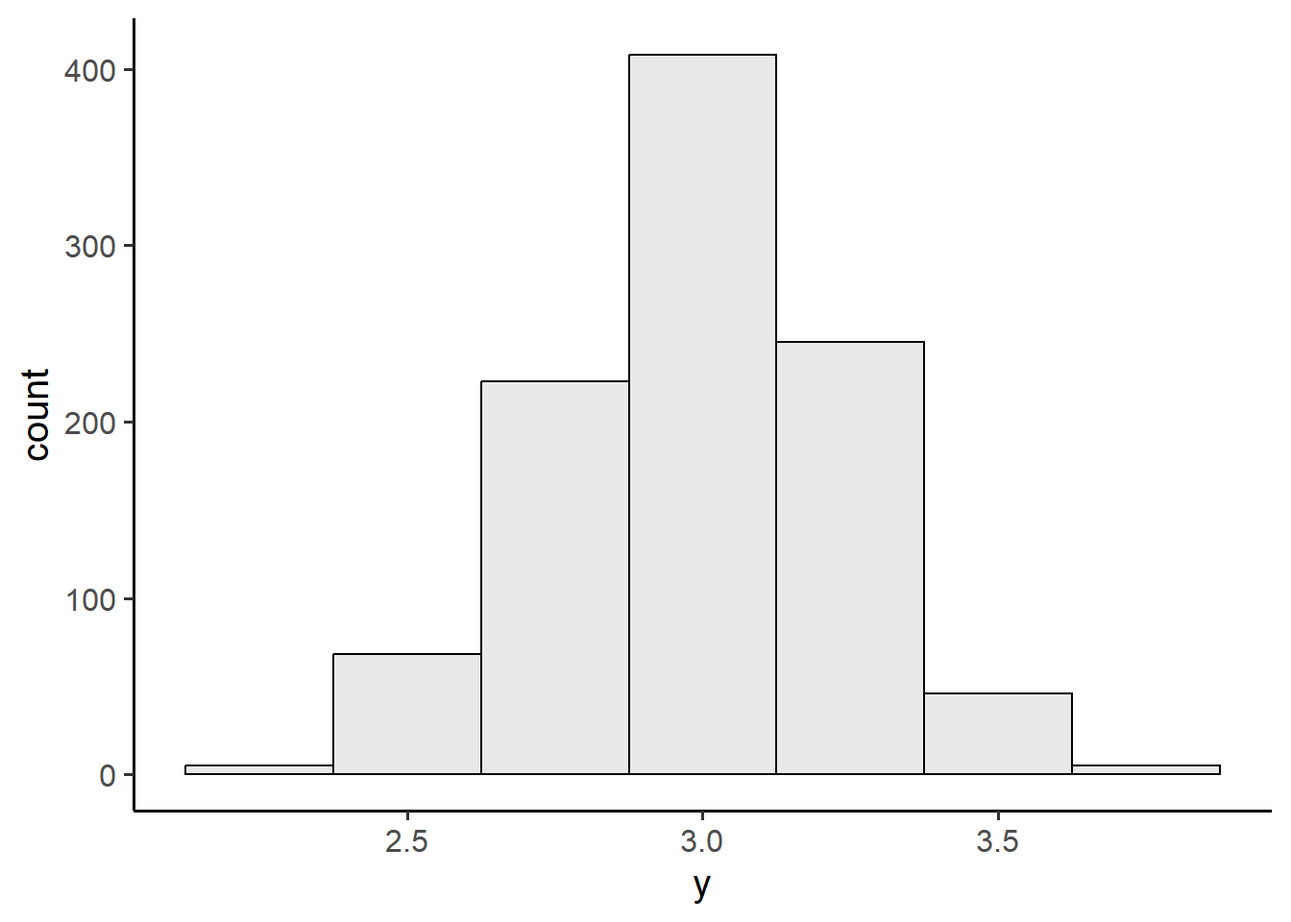
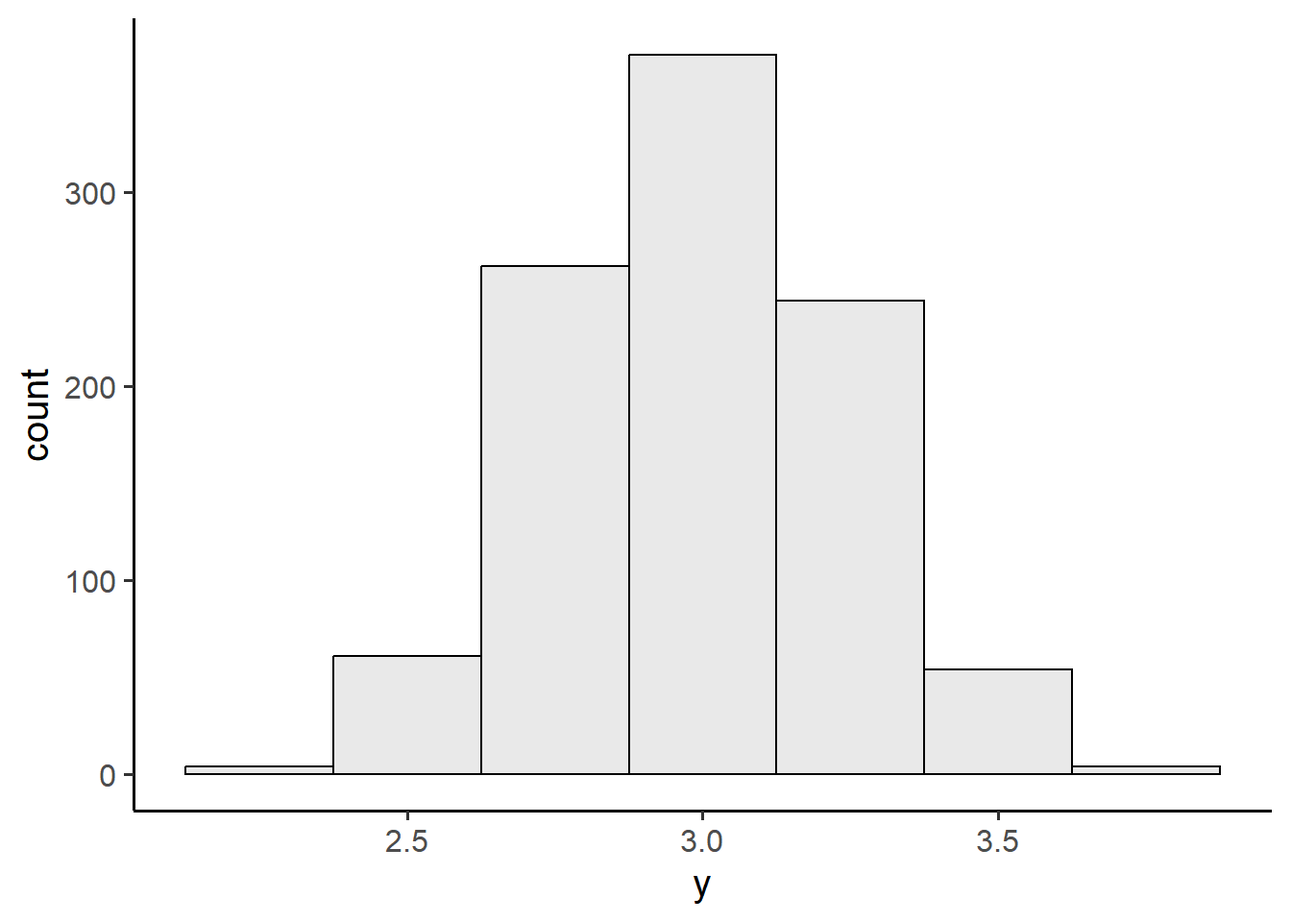
edit template example

diff --git a/docs/labs/lab-01.html b/docs/labs/lab-01.html
@@ -413,46 +413,46 @@ window.onload = function() {
 <section id="google-colab" class="level2" data-number="1">
 <h2 data-number="1" class="anchored" data-anchor-id="google-colab"><span class="header-section-number">1</span> Google Colab</h2>
 <p>True or false? We start a new R notebook in Google Colab with <code>File &gt; New notebook</code></p>
-<div id="radio_XOVHGANMBH" class="webex-radiogroup">
-<label><input type="radio" autocomplete="off" name="radio_XOVHGANMBH" value=""> <span>True</span></label><label><input type="radio" autocomplete="off" name="radio_XOVHGANMBH" value="answer"> <span>False</span></label>
+<div id="radio_QIBEBRFAIH" class="webex-radiogroup">
+<label><input type="radio" autocomplete="off" name="radio_QIBEBRFAIH" value=""> <span>True</span></label><label><input type="radio" autocomplete="off" name="radio_QIBEBRFAIH" value="answer"> <span>False</span></label>
 </div>
 <p>For problem sets, how will you submit your colab notebook for grading?</p>
-<div id="radio_ZXKHQEACCN" class="webex-radiogroup">
-<label><input type="radio" autocomplete="off" name="radio_ZXKHQEACCN" value="answer"> <span><code>File &gt; Download &gt; Download .ipynb</code>, then upload to Gradescope</span></label><label><input type="radio" autocomplete="off" name="radio_ZXKHQEACCN" value=""> <span><code>File &gt; Download &gt; Download .ipynb</code>, then upload to Canvas</span></label><label><input type="radio" autocomplete="off" name="radio_ZXKHQEACCN" value=""> <span><code>File &gt; Download &gt; Download .py</code>, then upload to Gradescope</span></label><label><input type="radio" autocomplete="off" name="radio_ZXKHQEACCN" value=""> <span><code>File &gt; Download &gt; Download .py</code>, then upload to Canvas</span></label>
+<div id="radio_BUSMPQCHGV" class="webex-radiogroup">
+<label><input type="radio" autocomplete="off" name="radio_BUSMPQCHGV" value="answer"> <span><code>File &gt; Download &gt; Download .ipynb</code>, then upload to Gradescope</span></label><label><input type="radio" autocomplete="off" name="radio_BUSMPQCHGV" value=""> <span><code>File &gt; Download &gt; Download .ipynb</code>, then upload to Canvas</span></label><label><input type="radio" autocomplete="off" name="radio_BUSMPQCHGV" value=""> <span><code>File &gt; Download &gt; Download .py</code>, then upload to Gradescope</span></label><label><input type="radio" autocomplete="off" name="radio_BUSMPQCHGV" value=""> <span><code>File &gt; Download &gt; Download .py</code>, then upload to Canvas</span></label>
 </div>
 <p>What version of R is Google Colab running? Hint: use <code>sessionInfo()</code>.</p>
 <p><input class="webex-solveme nospaces" size="20" data-answer="[&quot;4.3.1&quot;]"></p>
 <p>What is the relationship between R and Google Colab?</p>
-<div id="radio_DBZCMHTUSP" class="webex-radiogroup">
-<label><input type="radio" autocomplete="off" name="radio_DBZCMHTUSP" value=""> <span>R is a programming language. Google Colab is a smaller, specific version of R.</span></label><label><input type="radio" autocomplete="off" name="radio_DBZCMHTUSP" value="answer"> <span>R is a programming language. Google Colab is a development environment where you can run R</span></label><label><input type="radio" autocomplete="off" name="radio_DBZCMHTUSP" value=""> <span>R and Google Colab are both programming languages.</span></label><label><input type="radio" autocomplete="off" name="radio_DBZCMHTUSP" value=""> <span>R is a paid (proprietary) programming language. Google Colab is a free service to run R.</span></label>
+<div id="radio_JYADGCHTGP" class="webex-radiogroup">
+<label><input type="radio" autocomplete="off" name="radio_JYADGCHTGP" value=""> <span>R is a programming language. Google Colab is a smaller, specific version of R.</span></label><label><input type="radio" autocomplete="off" name="radio_JYADGCHTGP" value="answer"> <span>R is a programming language. Google Colab is a development environment where you can run R</span></label><label><input type="radio" autocomplete="off" name="radio_JYADGCHTGP" value=""> <span>R and Google Colab are both programming languages.</span></label><label><input type="radio" autocomplete="off" name="radio_JYADGCHTGP" value=""> <span>R is a paid (proprietary) programming language. Google Colab is a free service to run R.</span></label>
 </div>
 </section>
 <section id="r-basics" class="level2" data-number="2">
 <h2 data-number="2" class="anchored" data-anchor-id="r-basics"><span class="header-section-number">2</span> R Basics</h2>
 <p>Which of the following are expressions?</p>
-<div id="radio_BJQNSNIQGN" class="webex-radiogroup">
-<label><input type="radio" autocomplete="off" name="radio_BJQNSNIQGN" value="answer"> <span>10</span></label><label><input type="radio" autocomplete="off" name="radio_BJQNSNIQGN" value="answer"> <span>5 + 10</span></label><label><input type="radio" autocomplete="off" name="radio_BJQNSNIQGN" value="answer"> <span>x &lt;- 5 + 10</span></label><label><input type="radio" autocomplete="off" name="radio_BJQNSNIQGN" value="answer"> <span>x &lt;- y + 10</span></label><label><input type="radio" autocomplete="off" name="radio_BJQNSNIQGN" value="answer"> <span>mean(x)</span></label>
+<div id="radio_BHEFUPMZDW" class="webex-radiogroup">
+<label><input type="radio" autocomplete="off" name="radio_BHEFUPMZDW" value="answer"> <span>10</span></label><label><input type="radio" autocomplete="off" name="radio_BHEFUPMZDW" value="answer"> <span>5 + 10</span></label><label><input type="radio" autocomplete="off" name="radio_BHEFUPMZDW" value="answer"> <span>x &lt;- 5 + 10</span></label><label><input type="radio" autocomplete="off" name="radio_BHEFUPMZDW" value="answer"> <span>x &lt;- y + 10</span></label><label><input type="radio" autocomplete="off" name="radio_BHEFUPMZDW" value="answer"> <span>mean(x)</span></label>
 </div>
 <p>Which of the following are valid variable names in R?</p>
-<div id="radio_ACYQGZXWNC" class="webex-radiogroup">
-<label><input type="radio" autocomplete="off" name="radio_ACYQGZXWNC" value="answer"> <span>childAge</span></label><label><input type="radio" autocomplete="off" name="radio_ACYQGZXWNC" value="answer"> <span>response_time</span></label><label><input type="radio" autocomplete="off" name="radio_ACYQGZXWNC" value=""> <span>1stPlaceWinner</span></label><label><input type="radio" autocomplete="off" name="radio_ACYQGZXWNC" value=""> <span>2fast2furious</span></label><label><input type="radio" autocomplete="off" name="radio_ACYQGZXWNC" value=""> <span>pi</span></label>
+<div id="radio_TTPHCHIGLQ" class="webex-radiogroup">
+<label><input type="radio" autocomplete="off" name="radio_TTPHCHIGLQ" value="answer"> <span>childAge</span></label><label><input type="radio" autocomplete="off" name="radio_TTPHCHIGLQ" value="answer"> <span>response_time</span></label><label><input type="radio" autocomplete="off" name="radio_TTPHCHIGLQ" value=""> <span>1stPlaceWinner</span></label><label><input type="radio" autocomplete="off" name="radio_TTPHCHIGLQ" value=""> <span>2fast2furious</span></label><label><input type="radio" autocomplete="off" name="radio_TTPHCHIGLQ" value=""> <span>pi</span></label>
 </div>
 <p>Suppose we open a new colab notebook and run the following code block. What will be returned?</p>
 <div class="sourceCode" id="cb1"><pre class="sourceCode r code-with-copy"><code class="sourceCode r"><span id="cb1-1"><a href="#cb1-1" aria-hidden="true" tabindex="-1"></a>x <span class="ot">&lt;-</span> <span class="dv">1</span> <span class="sc">+</span> <span class="dv">2</span></span>
 <span id="cb1-2"><a href="#cb1-2" aria-hidden="true" tabindex="-1"></a>y <span class="ot">&lt;-</span> <span class="dv">0</span> <span class="sc">+</span> <span class="dv">3</span></span>
 <span id="cb1-3"><a href="#cb1-3" aria-hidden="true" tabindex="-1"></a><span class="fu">ls</span>()</span></code><button title="Copy to Clipboard" class="code-copy-button"><i class="bi"></i></button></pre></div>
-<div id="radio_ZKGLASCHPN" class="webex-radiogroup">
-<label><input type="radio" autocomplete="off" name="radio_ZKGLASCHPN" value=""> <span>3</span></label><label><input type="radio" autocomplete="off" name="radio_ZKGLASCHPN" value=""> <span>x=3 • y=3</span></label><label><input type="radio" autocomplete="off" name="radio_ZKGLASCHPN" value="answer"> <span>'x' • 'y' </span></label><label><input type="radio" autocomplete="off" name="radio_ZKGLASCHPN" value=""> <span>mean(c(1,3,5)) • median(c(1,3,5))</span></label>
+<div id="radio_NTNTCIMPNJ" class="webex-radiogroup">
+<label><input type="radio" autocomplete="off" name="radio_NTNTCIMPNJ" value=""> <span>3</span></label><label><input type="radio" autocomplete="off" name="radio_NTNTCIMPNJ" value=""> <span>x=3 • y=3</span></label><label><input type="radio" autocomplete="off" name="radio_NTNTCIMPNJ" value="answer"> <span>'x' • 'y' </span></label><label><input type="radio" autocomplete="off" name="radio_NTNTCIMPNJ" value=""> <span>mean(c(1,3,5)) • median(c(1,3,5))</span></label>
 </div>
 <p>Which of the following will load the <code>emo</code> package into the current environment?</p>
-<div id="radio_RPNSNUYGWH" class="webex-radiogroup">
-<label><input type="radio" autocomplete="off" name="radio_RPNSNUYGWH" value=""> <span>install.packages('emo')</span></label><label><input type="radio" autocomplete="off" name="radio_RPNSNUYGWH" value="answer"> <span>library(emo)</span></label><label><input type="radio" autocomplete="off" name="radio_RPNSNUYGWH" value=""> <span>data(emo)</span></label><label><input type="radio" autocomplete="off" name="radio_RPNSNUYGWH" value=""> <span>attributes(emo)</span></label>
+<div id="radio_YVHQIIGMZX" class="webex-radiogroup">
+<label><input type="radio" autocomplete="off" name="radio_YVHQIIGMZX" value=""> <span>install.packages('emo')</span></label><label><input type="radio" autocomplete="off" name="radio_YVHQIIGMZX" value="answer"> <span>library(emo)</span></label><label><input type="radio" autocomplete="off" name="radio_YVHQIIGMZX" value=""> <span>data(emo)</span></label><label><input type="radio" autocomplete="off" name="radio_YVHQIIGMZX" value=""> <span>attributes(emo)</span></label>
 </div>
 <p>Which of the following occur in the code block below?</p>
 <div class="sourceCode" id="cb2"><pre class="sourceCode r code-with-copy"><code class="sourceCode r"><span id="cb2-1"><a href="#cb2-1" aria-hidden="true" tabindex="-1"></a><span class="co"># compute the mean of x and y</span></span>
 <span id="cb2-2"><a href="#cb2-2" aria-hidden="true" tabindex="-1"></a><span class="fu">mean</span>(<span class="fu">c</span>(x,y))</span></code><button title="Copy to Clipboard" class="code-copy-button"><i class="bi"></i></button></pre></div>
-<div id="radio_LRAUYECJTF" class="webex-radiogroup">
-<label><input type="radio" autocomplete="off" name="radio_LRAUYECJTF" value=""> <span>a message</span></label><label><input type="radio" autocomplete="off" name="radio_LRAUYECJTF" value="answer"> <span>a function</span></label><label><input type="radio" autocomplete="off" name="radio_LRAUYECJTF" value="answer"> <span>a comment</span></label><label><input type="radio" autocomplete="off" name="radio_LRAUYECJTF" value="answer"> <span>an expression</span></label>
+<div id="radio_WWZJMSAZAP" class="webex-radiogroup">
+<label><input type="radio" autocomplete="off" name="radio_WWZJMSAZAP" value=""> <span>a message</span></label><label><input type="radio" autocomplete="off" name="radio_WWZJMSAZAP" value="answer"> <span>a function</span></label><label><input type="radio" autocomplete="off" name="radio_WWZJMSAZAP" value="answer"> <span>a comment</span></label><label><input type="radio" autocomplete="off" name="radio_WWZJMSAZAP" value="answer"> <span>an expression</span></label>
 </div>
 </section>
 <section id="vectors" class="level2" data-number="3">
@@ -461,8 +461,8 @@ window.onload = function() {
 <div class="sourceCode" id="cb3"><pre class="sourceCode r code-with-copy"><code class="sourceCode r"><span id="cb3-1"><a href="#cb3-1" aria-hidden="true" tabindex="-1"></a><span class="fu">typeof</span>(x)</span></code><button title="Copy to Clipboard" class="code-copy-button"><i class="bi"></i></button></pre></div>
 <p><input class="webex-solveme nospaces" size="20" data-answer="[&quot;character&quot;]"></p>
 <p>What is the previous question an example of?</p>
-<div id="radio_EYBMHGIFJS" class="webex-radiogroup">
-<label><input type="radio" autocomplete="off" name="radio_EYBMHGIFJS" value=""> <span>attribute addition</span></label><label><input type="radio" autocomplete="off" name="radio_EYBMHGIFJS" value=""> <span>explicit coercion</span></label><label><input type="radio" autocomplete="off" name="radio_EYBMHGIFJS" value="answer"> <span>implicit coercion</span></label><label><input type="radio" autocomplete="off" name="radio_EYBMHGIFJS" value=""> <span>none of the above</span></label>
+<div id="radio_USNGVEXBRS" class="webex-radiogroup">
+<label><input type="radio" autocomplete="off" name="radio_USNGVEXBRS" value=""> <span>attribute addition</span></label><label><input type="radio" autocomplete="off" name="radio_USNGVEXBRS" value=""> <span>explicit coercion</span></label><label><input type="radio" autocomplete="off" name="radio_USNGVEXBRS" value="answer"> <span>implicit coercion</span></label><label><input type="radio" autocomplete="off" name="radio_USNGVEXBRS" value=""> <span>none of the above</span></label>
 </div>
 <p>What will the following code block return?</p>
 <div class="sourceCode" id="cb4"><pre class="sourceCode r code-with-copy"><code class="sourceCode r"><span id="cb4-1"><a href="#cb4-1" aria-hidden="true" tabindex="-1"></a>x <span class="ot">&lt;-</span> <span class="dv">1</span><span class="sc">:</span><span class="dv">4</span></span>
@@ -479,35 +479,35 @@ window.onload = function() {
 <pre><code> num [1:4] 1 0 1 0</code></pre>
 </div>
 </div>
-<div id="radio_MOYUAUJXTK" class="webex-radiogroup">
-<label><input type="radio" autocomplete="off" name="radio_MOYUAUJXTK" value=""> <span>an error</span></label><label><input type="radio" autocomplete="off" name="radio_MOYUAUJXTK" value="answer"> <span>TRUE • FALSE • TRUE • FALSE</span></label><label><input type="radio" autocomplete="off" name="radio_MOYUAUJXTK" value=""> <span>FALSE</span></label><label><input type="radio" autocomplete="off" name="radio_MOYUAUJXTK" value=""> <span>FALSE • TRUE • FALSE • TRUE</span></label>
+<div id="radio_STQVNFBKOJ" class="webex-radiogroup">
+<label><input type="radio" autocomplete="off" name="radio_STQVNFBKOJ" value=""> <span>an error</span></label><label><input type="radio" autocomplete="off" name="radio_STQVNFBKOJ" value="answer"> <span>TRUE • FALSE • TRUE • FALSE</span></label><label><input type="radio" autocomplete="off" name="radio_STQVNFBKOJ" value=""> <span>FALSE</span></label><label><input type="radio" autocomplete="off" name="radio_STQVNFBKOJ" value=""> <span>FALSE • TRUE • FALSE • TRUE</span></label>
 </div>
 <p>Given the following vector, what will <code>as.double(x)</code> return?</p>
 <div class="sourceCode" id="cb7"><pre class="sourceCode r code-with-copy"><code class="sourceCode r"><span id="cb7-1"><a href="#cb7-1" aria-hidden="true" tabindex="-1"></a>x <span class="ot">&lt;-</span> <span class="fu">c</span>(<span class="st">"one"</span>, <span class="st">"two"</span>, <span class="st">"three"</span>)</span></code><button title="Copy to Clipboard" class="code-copy-button"><i class="bi"></i></button></pre></div>
-<div id="radio_UJANEMBDUQ" class="webex-radiogroup">
-<label><input type="radio" autocomplete="off" name="radio_UJANEMBDUQ" value="answer"> <span>an error</span></label><label><input type="radio" autocomplete="off" name="radio_UJANEMBDUQ" value=""> <span>1 • 2 • 3</span></label><label><input type="radio" autocomplete="off" name="radio_UJANEMBDUQ" value=""> <span>2 • 4 • 6</span></label><label><input type="radio" autocomplete="off" name="radio_UJANEMBDUQ" value=""> <span>'one' • 'two' • 'three'</span></label>
+<div id="radio_HRVJRWRHEC" class="webex-radiogroup">
+<label><input type="radio" autocomplete="off" name="radio_HRVJRWRHEC" value="answer"> <span>an error</span></label><label><input type="radio" autocomplete="off" name="radio_HRVJRWRHEC" value=""> <span>1 • 2 • 3</span></label><label><input type="radio" autocomplete="off" name="radio_HRVJRWRHEC" value=""> <span>2 • 4 • 6</span></label><label><input type="radio" autocomplete="off" name="radio_HRVJRWRHEC" value=""> <span>'one' • 'two' • 'three'</span></label>
 </div>
 <p>What happens if you add a vector of numbers to a single number in the following expression?</p>
 <div class="sourceCode" id="cb8"><pre class="sourceCode r code-with-copy"><code class="sourceCode r"><span id="cb8-1"><a href="#cb8-1" aria-hidden="true" tabindex="-1"></a><span class="fu">c</span>(<span class="dv">1</span>, <span class="dv">3</span>, <span class="dv">5</span>) <span class="sc">+</span> <span class="dv">1</span></span></code><button title="Copy to Clipboard" class="code-copy-button"><i class="bi"></i></button></pre></div>
-<div id="radio_DBBDMSGGRP" class="webex-radiogroup">
-<label><input type="radio" autocomplete="off" name="radio_DBBDMSGGRP" value=""> <span>2 • 3 • 5</span></label><label><input type="radio" autocomplete="off" name="radio_DBBDMSGGRP" value=""> <span>Error: length mismatch</span></label><label><input type="radio" autocomplete="off" name="radio_DBBDMSGGRP" value=""> <span>1 • 3 • 5 • 1</span></label><label><input type="radio" autocomplete="off" name="radio_DBBDMSGGRP" value="answer"> <span>2 • 4 • 6</span></label>
+<div id="radio_SURMANHGYT" class="webex-radiogroup">
+<label><input type="radio" autocomplete="off" name="radio_SURMANHGYT" value=""> <span>2 • 3 • 5</span></label><label><input type="radio" autocomplete="off" name="radio_SURMANHGYT" value=""> <span>Error: length mismatch</span></label><label><input type="radio" autocomplete="off" name="radio_SURMANHGYT" value=""> <span>1 • 3 • 5 • 1</span></label><label><input type="radio" autocomplete="off" name="radio_SURMANHGYT" value="answer"> <span>2 • 4 • 6</span></label>
 </div>
 <p>What happens if you multiply a vector times another vector?</p>
 <div class="sourceCode" id="cb9"><pre class="sourceCode r code-with-copy"><code class="sourceCode r"><span id="cb9-1"><a href="#cb9-1" aria-hidden="true" tabindex="-1"></a><span class="fu">c</span>(<span class="dv">1</span>, <span class="dv">3</span>, <span class="dv">5</span>) <span class="sc">*</span> <span class="fu">c</span>(<span class="dv">10</span>, <span class="dv">100</span>, <span class="dv">1000</span>)</span></code><button title="Copy to Clipboard" class="code-copy-button"><i class="bi"></i></button></pre></div>
-<div id="radio_ZSREGULEYS" class="webex-radiogroup">
-<label><input type="radio" autocomplete="off" name="radio_ZSREGULEYS" value="answer"> <span>10 • 300 • 5000</span></label><label><input type="radio" autocomplete="off" name="radio_ZSREGULEYS" value=""> <span>Error: length mismatch</span></label><label><input type="radio" autocomplete="off" name="radio_ZSREGULEYS" value=""> <span>10 • 30 • 50 • 100 • 300 • 500 • 1000 • 3000 • 5000</span></label><label><input type="radio" autocomplete="off" name="radio_ZSREGULEYS" value=""> <span>a 2 x 3 matrix</span></label><label><input type="radio" autocomplete="off" name="radio_ZSREGULEYS" value=""> <span>Error: cannot multiply vectors</span></label>
+<div id="radio_QHCVRQMUFE" class="webex-radiogroup">
+<label><input type="radio" autocomplete="off" name="radio_QHCVRQMUFE" value="answer"> <span>10 • 300 • 5000</span></label><label><input type="radio" autocomplete="off" name="radio_QHCVRQMUFE" value=""> <span>Error: length mismatch</span></label><label><input type="radio" autocomplete="off" name="radio_QHCVRQMUFE" value=""> <span>10 • 30 • 50 • 100 • 300 • 500 • 1000 • 3000 • 5000</span></label><label><input type="radio" autocomplete="off" name="radio_QHCVRQMUFE" value=""> <span>a 2 x 3 matrix</span></label><label><input type="radio" autocomplete="off" name="radio_QHCVRQMUFE" value=""> <span>Error: cannot multiply vectors</span></label>
 </div>
 <p>Suppose we run the following code. What will <code>any(x)</code> return?</p>
 <div class="sourceCode" id="cb10"><pre class="sourceCode r code-with-copy"><code class="sourceCode r"><span id="cb10-1"><a href="#cb10-1" aria-hidden="true" tabindex="-1"></a>x <span class="ot">&lt;-</span> <span class="fu">c</span>(<span class="dv">1</span>, <span class="dv">5</span>, <span class="dv">11</span>) <span class="sc">&gt;</span> <span class="dv">10</span></span></code><button title="Copy to Clipboard" class="code-copy-button"><i class="bi"></i></button></pre></div>
-<div id="radio_LMUWQDKJLI" class="webex-radiogroup">
-<label><input type="radio" autocomplete="off" name="radio_LMUWQDKJLI" value="answer"> <span>TRUE</span></label><label><input type="radio" autocomplete="off" name="radio_LMUWQDKJLI" value=""> <span>FALSE</span></label><label><input type="radio" autocomplete="off" name="radio_LMUWQDKJLI" value=""> <span>Error: vector is double but requires logical</span></label>
+<div id="radio_VACYMLOOBF" class="webex-radiogroup">
+<label><input type="radio" autocomplete="off" name="radio_VACYMLOOBF" value="answer"> <span>TRUE</span></label><label><input type="radio" autocomplete="off" name="radio_VACYMLOOBF" value=""> <span>FALSE</span></label><label><input type="radio" autocomplete="off" name="radio_VACYMLOOBF" value=""> <span>Error: vector is double but requires logical</span></label>
 </div>
 </section>
 <section id="subsetting" class="level2" data-number="4">
 <h2 data-number="4" class="anchored" data-anchor-id="subsetting"><span class="header-section-number">4</span> Subsetting</h2>
 <p>Which of the following code subsets the vector <code>x &lt;- c("blue", "pink", "red")</code> to return just the first element?</p>
-<div id="radio_XWZFCFBBKC" class="webex-radiogroup">
-<label><input type="radio" autocomplete="off" name="radio_XWZFCFBBKC" value="answer"> <span>x[1]</span></label><label><input type="radio" autocomplete="off" name="radio_XWZFCFBBKC" value="answer"> <span>x[[1]]</span></label><label><input type="radio" autocomplete="off" name="radio_XWZFCFBBKC" value=""> <span>x[0]</span></label><label><input type="radio" autocomplete="off" name="radio_XWZFCFBBKC" value="answer"> <span>x[-c(2, 3)]</span></label><label><input type="radio" autocomplete="off" name="radio_XWZFCFBBKC" value=""> <span>x[“blue”]</span></label>
+<div id="radio_JSJSJBBMRL" class="webex-radiogroup">
+<label><input type="radio" autocomplete="off" name="radio_JSJSJBBMRL" value="answer"> <span>x[1]</span></label><label><input type="radio" autocomplete="off" name="radio_JSJSJBBMRL" value="answer"> <span>x[[1]]</span></label><label><input type="radio" autocomplete="off" name="radio_JSJSJBBMRL" value=""> <span>x[0]</span></label><label><input type="radio" autocomplete="off" name="radio_JSJSJBBMRL" value="answer"> <span>x[-c(2, 3)]</span></label><label><input type="radio" autocomplete="off" name="radio_JSJSJBBMRL" value=""> <span>x[“blue”]</span></label>
 </div>
 <p>Suppose we run the following code. What will <code>x[[2]]</code> return?</p>
 <div class="sourceCode" id="cb11"><pre class="sourceCode r code-with-copy"><code class="sourceCode r"><span id="cb11-1"><a href="#cb11-1" aria-hidden="true" tabindex="-1"></a>x <span class="ot">&lt;-</span> <span class="fu">seq</span>(<span class="at">from =</span> <span class="dv">2</span>, <span class="at">to =</span><span class="dv">8</span>, <span class="at">by=</span><span class="dv">2</span>)</span></code><button title="Copy to Clipboard" class="code-copy-button"><i class="bi"></i></button></pre></div>

diff --git a/docs/notes/webr-template.html b/docs/notes/webr-template.html
@@ -295,7 +295,7 @@ window.onload = function() {
   const initializeWebRTimerStart = performance.now();
 
   // Determine if we need to install R packages
-  var installRPackagesList = ['tidyverse'];
+  var installRPackagesList = ['dplyr'];
   // Check to see if we have an empty array, if we do set to skip the installation.
   var setupRPackages = !(installRPackagesList.indexOf("") !== -1);
 
@@ -504,9 +504,9 @@ window.onload = function() {
   let editor;
   require(['vs/editor/editor.main'], function () {
     editor = monaco.editor.create(editorDiv, {
-      value: `library(tidyverse)
-mtcars %>%
-  slice(1:5)`,
+      value: `x <- mtcars %>%
+  select(1:4)
+x[1:5]`,
       language: 'r',
       theme: 'vs-light',
       automaticLayout: true,           // TODO: Could be problematic for slide decks
@@ -646,6 +646,167 @@ mtcars %>%
     executeCode(editor.getValue());
   };
 </script>
+<div class="cell">
+<button class="btn btn-default btn-webr" disabled="" type="button" id="webr-run-button-2">Loading
+  webR...</button>
+<div id="webr-editor-2"></div>
+<div id="webr-code-output-2" aria-live="assertive">
+  <pre style="visibility: hidden"></pre>
+</div>
+<script type="module">
+  // Retrieve webR code cell information
+  const runButton = document.getElementById("webr-run-button-2");
+  const outputDiv = document.getElementById("webr-code-output-2");
+  const editorDiv = document.getElementById("webr-editor-2");
+
+  // Add a light grey outline around the code editor
+  editorDiv.style.border = "1px solid #eee";
+
+  // Load the Monaco Editor and create an instance
+  let editor;
+  require(['vs/editor/editor.main'], function () {
+    editor = monaco.editor.create(editorDiv, {
+      value: `x[1:10,]`,
+      language: 'r',
+      theme: 'vs-light',
+      automaticLayout: true,           // TODO: Could be problematic for slide decks
+      scrollBeyondLastLine: false,
+      minimap: {
+        enabled: false
+      },
+      fontSize: '17.5rem',               // Bootstrap is 1 rem
+      renderLineHighlight: "none",     // Disable current line highlighting
+      hideCursorInOverviewRuler: true  // Remove cursor indictor in right hand side scroll bar
+    });
+
+    // Add a keydown event listener for Shift+Enter using the addCommand method
+    editor.addCommand(monaco.KeyMod.Shift | monaco.KeyCode.Enter, function () {
+      // Code to run when Shift+Enter is pressed
+      executeCode(editor.getValue());
+    });
+
+    // Add a keydown event listener for Ctrl+Enter to run selected code
+    editor.addCommand(monaco.KeyMod.CtrlCmd | monaco.KeyCode.Enter, function () {
+      // Get the selected text from the editor
+      const selectedText = editor.getModel().getValueInRange(editor.getSelection());
+      // Code to run when Ctrl+Enter is pressed (run selected code)
+      executeCode(selectedText);
+    });
+
+    // Dynamically modify the height of the editor window if new lines are added.
+    let ignoreEvent = false;
+    const updateHeight = () => {
+      const contentHeight = editor.getContentHeight();
+      // We're avoiding a width change
+      //editorDiv.style.width = `${width}px`;
+      editorDiv.style.height = `${contentHeight}px`;
+      try {
+        ignoreEvent = true;
+
+        // The key to resizing is this call
+        editor.layout();
+      } finally {
+        ignoreEvent = false;
+      }
+    };
+
+    // Register an on change event for when new code is added to the editor window
+    editor.onDidContentSizeChange(updateHeight);
+
+    // Manually re-update height to account for the content we inserted into the call
+    updateHeight();
+  });
+
+  // Function to execute the code (accepts code as an argument)
+  async function executeCode(codeToRun) {
+    // Disable run button for code cell active
+    runButton.disabled = true;
+
+    // Create a canvas variable for graphics
+    let canvas = undefined;
+
+    // Initialize webR
+    await globalThis.webR.init();
+
+    // Setup a webR canvas by making a namespace call into the {webr} package
+    await webR.evalRVoid("webr::canvas(width=504, height=360)");
+
+    // Capture output data from evaluating the code
+    const result = await webRCodeShelter.captureR(codeToRun, {
+      withAutoprint: true,
+      captureStreams: true,
+      captureConditions: false//,
+      // env: webR.objs.emptyEnv, // maintain a global environment for webR v0.2.0
+    });
+
+    // Start attempting to parse the result data
+    try {
+
+      // Stop creating images
+      await webR.evalRVoid("dev.off()");
+
+      // Merge output streams of STDOUT and STDErr (messages and errors are combined.)
+      const out = result.output.filter(
+        evt => evt.type == "stdout" || evt.type == "stderr"
+      ).map((evt) => evt.data).join("\n");
+
+      // Clean the state
+      const msgs = await webR.flush();
+
+      // Output each image stored
+      msgs.forEach(msg => {
+        // Determine if old canvas can be used or a new canvas is required.
+        if (msg.type === 'canvas'){
+          // Add image to the current canvas
+          if (msg.data.event === 'canvasImage') {
+            canvas.getContext('2d').drawImage(msg.data.image, 0, 0);
+          } else if (msg.data.event === 'canvasNewPage') {
+            // Generate a new canvas element
+            canvas = document.createElement("canvas");
+            canvas.setAttribute("width", 2 * 504);
+            canvas.setAttribute("height", 2 * 360);
+            canvas.style.width = "700px";
+            canvas.style.display = "block";
+            canvas.style.margin = "auto";
+          }
+        }
+      });
+
+      // Nullify the outputDiv of content
+      outputDiv.innerHTML = "";
+
+      // Design an output object for messages
+      const pre = document.createElement("pre");
+      if (/\S/.test(out)) {
+        // Display results as text
+        const code = document.createElement("code");
+        code.innerText = out;
+        pre.appendChild(code);
+      } else {
+        // If nothing is present, hide the element.
+        pre.style.visibility = "hidden";
+      }
+      outputDiv.appendChild(pre);
+
+      // Place the graphics on the canvas
+      if (canvas) {
+        const p = document.createElement("p");
+        p.appendChild(canvas);
+        outputDiv.appendChild(p);
+      }
+    } finally {
+      // Clean up the remaining code
+      webRCodeShelter.purge();
+      runButton.disabled = false;
+    }
+  }
+
+  // Add a click event listener to the run button
+  runButton.onclick = function () {
+    executeCode(editor.getValue());
+  };
+</script>
+</div>
 
 
 </section>

diff --git a/docs/webexercises.html b/docs/webexercises.html
@@ -403,7 +403,7 @@ window.onload = function() {
 </ul>
 <p>You can also create these questions dynamically, using variables from your R session.</p>
 <ul>
-<li>The square root of 64 is: <input class="webex-solveme nospaces" size="1" data-answer="[&quot;8&quot;]"></li>
+<li>The square root of 9 is: <input class="webex-solveme nospaces" size="1" data-answer="[&quot;3&quot;]"></li>
 </ul>
 <p>The blanks are case-sensitive; if you don’t care about case, use the argument <code>ignore_case = TRUE</code>.</p>
 <ul>
@@ -439,12 +439,12 @@ window.onload = function() {
 <h3 class="anchored" data-anchor-id="longer-mcqs-longmcq">Longer MCQs (<code>longmcq()</code>)</h3>
 <p>When your answers are very long, sometimes a drop-down select box gets formatted oddly. You can use <code>longmcq()</code> to deal with this. Since the answers are long, It’s probably best to set up the options inside an R chunk with <code>echo=FALSE</code>.</p>
 <p><strong>What is a p-value?</strong></p>
-<div id="radio_XGTFLLQAME" class="webex-radiogroup">
-<label><input type="radio" autocomplete="off" name="radio_XGTFLLQAME" value=""> <span>the probability that the null hypothesis is true</span></label><label><input type="radio" autocomplete="off" name="radio_XGTFLLQAME" value="answer"> <span>the probability of the observed, or more extreme, data, under the assumption that the null-hypothesis is true</span></label><label><input type="radio" autocomplete="off" name="radio_XGTFLLQAME" value=""> <span>the probability of making an error in your conclusion</span></label>
+<div id="radio_SRECUGNAHE" class="webex-radiogroup">
+<label><input type="radio" autocomplete="off" name="radio_SRECUGNAHE" value=""> <span>the probability that the null hypothesis is true</span></label><label><input type="radio" autocomplete="off" name="radio_SRECUGNAHE" value="answer"> <span>the probability of the observed, or more extreme, data, under the assumption that the null-hypothesis is true</span></label><label><input type="radio" autocomplete="off" name="radio_SRECUGNAHE" value=""> <span>the probability of making an error in your conclusion</span></label>
 </div>
 <p><strong>What is true about a 95% confidence interval of the mean?</strong></p>
-<div id="radio_OVIZNTTYJR" class="webex-radiogroup">
-<label><input type="radio" autocomplete="off" name="radio_OVIZNTTYJR" value=""> <span>95% of the data fall within this range</span></label><label><input type="radio" autocomplete="off" name="radio_OVIZNTTYJR" value=""> <span>there is a 95% probability that the true mean lies within this range</span></label><label><input type="radio" autocomplete="off" name="radio_OVIZNTTYJR" value="answer"> <span>if you repeated the process many times, 95% of intervals calculated in this way contain the true mean</span></label>
+<div id="radio_HEYKDSJJFN" class="webex-radiogroup">
+<label><input type="radio" autocomplete="off" name="radio_HEYKDSJJFN" value=""> <span>there is a 95% probability that the true mean lies within this range</span></label><label><input type="radio" autocomplete="off" name="radio_HEYKDSJJFN" value="answer"> <span>if you repeated the process many times, 95% of intervals calculated in this way contain the true mean</span></label><label><input type="radio" autocomplete="off" name="radio_HEYKDSJJFN" value=""> <span>95% of the data fall within this range</span></label>
 </div>
 </section>
 </section>
@@ -454,8 +454,8 @@ window.onload = function() {
 <div class="webex-check webex-box">
 <p>I am going to learn a lot: <select class="webex-select"><option value="blank"></option><option value="answer">TRUE</option><option value="">FALSE</option></select></p>
 What is a p-value?
-<div id="radio_XQIMUQUMML" class="webex-radiogroup">
-<label><input type="radio" autocomplete="off" name="radio_XQIMUQUMML" value=""> <span>the probability that the null hypothesis is true</span></label><label><input type="radio" autocomplete="off" name="radio_XQIMUQUMML" value="answer"> <span>the probability of the observed, or more extreme, data, under the assumption that the null-hypothesis is true</span></label><label><input type="radio" autocomplete="off" name="radio_XQIMUQUMML" value=""> <span>the probability of making an error in your conclusion</span></label>
+<div id="radio_XIXZFVNRHX" class="webex-radiogroup">
+<label><input type="radio" autocomplete="off" name="radio_XIXZFVNRHX" value=""> <span>the probability that the null hypothesis is true</span></label><label><input type="radio" autocomplete="off" name="radio_XIXZFVNRHX" value="answer"> <span>the probability of the observed, or more extreme, data, under the assumption that the null-hypothesis is true</span></label><label><input type="radio" autocomplete="off" name="radio_XIXZFVNRHX" value=""> <span>the probability of making an error in your conclusion</span></label>
 </div>
 </div>
 </section>

diff --git a/docs/drafts.html b/docs/drafts.html
@@ -491,7 +491,7 @@ Author
 <span class="listing-author">Katie Schuler</span>
 </td>
 </tr>
-<tr data-index="3" data-listing-date-sort="1693886400000" data-listing-file-modified-sort="1693937418066" data-listing-date-modified-sort="NaN" data-listing-reading-time-sort="1" data-listing-title-sort="WebR template" data-listing-filename-sort="webr-template.qmd">
+<tr data-index="3" data-listing-date-sort="1693886400000" data-listing-file-modified-sort="1693937959210" data-listing-date-modified-sort="NaN" data-listing-reading-time-sort="1" data-listing-title-sort="WebR template" data-listing-filename-sort="webr-template.qmd">
 <td>
 <span class="listing-date">Sep 5, 2023</span>
 </td>

diff --git a/docs/notes/probability-distributions.html b/docs/notes/probability-distributions.html
@@ -480,7 +480,7 @@ Under Construction
 <pre><code># A tibble: 1 × 6
       n  mean median    sd iqr_lower iqr_upper
   &lt;int&gt; &lt;dbl&gt;  &lt;dbl&gt; &lt;dbl&gt;     &lt;dbl&gt;     &lt;dbl&gt;
-1  1000  3.00   3.00 0.247      2.84      3.16</code></pre>
+1  1000  2.99   2.98 0.246      2.83      3.16</code></pre>
 </div>
 </div>
 </section>
